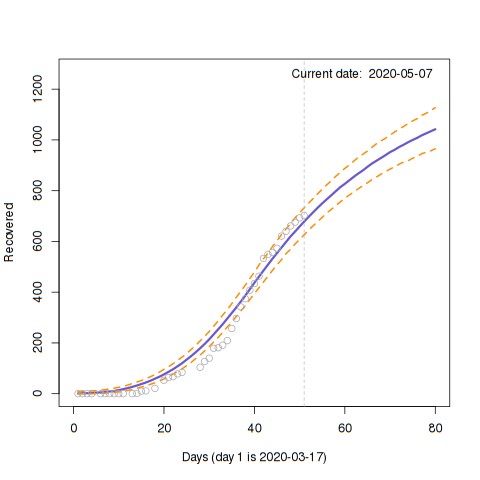
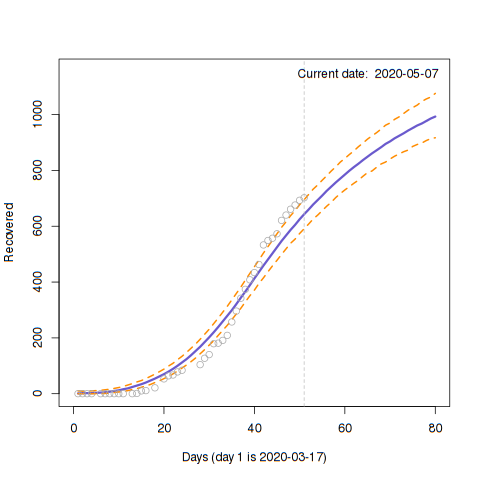
add mortality results

diff --git a/README.md b/README.md
@@ -28,7 +28,15 @@ The number of infected people as a function of time (days; day 1 is 2020-03-17) 
 
 ![](./inst/doc/fit_with_projections_recovered.png)
 
-The number of recovered (and dead) people as a function of time (days; day 1 is 2020-03-17) in circles. Vertical line represents "today". The blue line shown is the model fit to a modified SIR model with 95% Credible Intervals in orange. Simple deterministic (mean-field) forecasts from the recursive model are shown.
+The number of recovered people as a function of time (days; day 1 is 2020-03-17) in circles. Vertical line represents "today". The blue line shown is the model fit to a modified SIR model with 95% Credible Intervals in orange. Simple deterministic (mean-field) forecasts from the recursive model are shown.
+
+---
+
+# Number of deaths with simple projections
+
+![](./inst/doc/fit_with_projections_mortalities.png)
+
+The number of deaths as a function of time (days; day 1 is 2020-03-17) in circles. Vertical line represents "today". The blue line shown is the model fit to a modified SIR model with 95% Credible Intervals in orange. Simple deterministic (mean-field) forecasts from the recursive model are shown. The model fit is poor as this is a time-lagged process but the model is not. However, as a first order estimate of the scale of the process (mortality), it is still reasonable.
 
 
 
@@ -86,7 +94,7 @@ To install you need to install R, and then bootstrap from github directly:
 
 and also the Rpackages, "rstan" and "SimInf". They will pull in their own dependencies.
 
-Ultimately, you just need to create a data list with the information required: number of infected people on a daily basis ("InfectedCurrently" in the spreadsheet) as well as the cummulative number of "Recoveries" and "Deaths" and dates. You will also need the total population size of your area of interest. Look inside the function (https://github.com/jae0/adapt/blob/master/R/data_nova_scotia.R) to see how it is done here. Use the Nova Scotia example as a template. Thereafter, you can probably run the short code in https://github.com/jae0/adapt/blob/master/inst/scripts/example_parameter_estimation_SIR_nova_scotia.R with minimal modification.
+Ultimately, you just need to create a data list with the information required: number of infected people on a daily basis ("InfectedCurrently" in the spreadsheet) as well as the cummulative number of "Recoveries" and "Deaths" on a daily basis. You will also need the total population size of your area of interest. Look inside the function (https://github.com/jae0/adapt/blob/master/R/data_nova_scotia.R) to see how it is done here. Use the Nova Scotia example as a template. Thereafter, you can probably run the short code in https://github.com/jae0/adapt/blob/master/inst/scripts/example_parameter_estimation_SIR_nova_scotia.R with minimal modification.
 
 
 Here is an example of the data structure that is expected in "stan_data":
@@ -99,6 +107,7 @@ List of 14
  $ Npop       : num 971395
  $ Nobs       : int 51
  $ Npreds     : num 30
+ $ time       : int [1:51] 1 2 3 4 5 6 7 8 9 10 ...
  $ Sobs       : num [1:51] 971394 971392 971390 971390 -1 ...
  $ Iobs       : num [1:51] 1 3 5 5 -1 28 41 51 68 73 ...
  $ Robs       : num [1:51] 0 0 0 0 -1 0 0 0 0 0 ...
